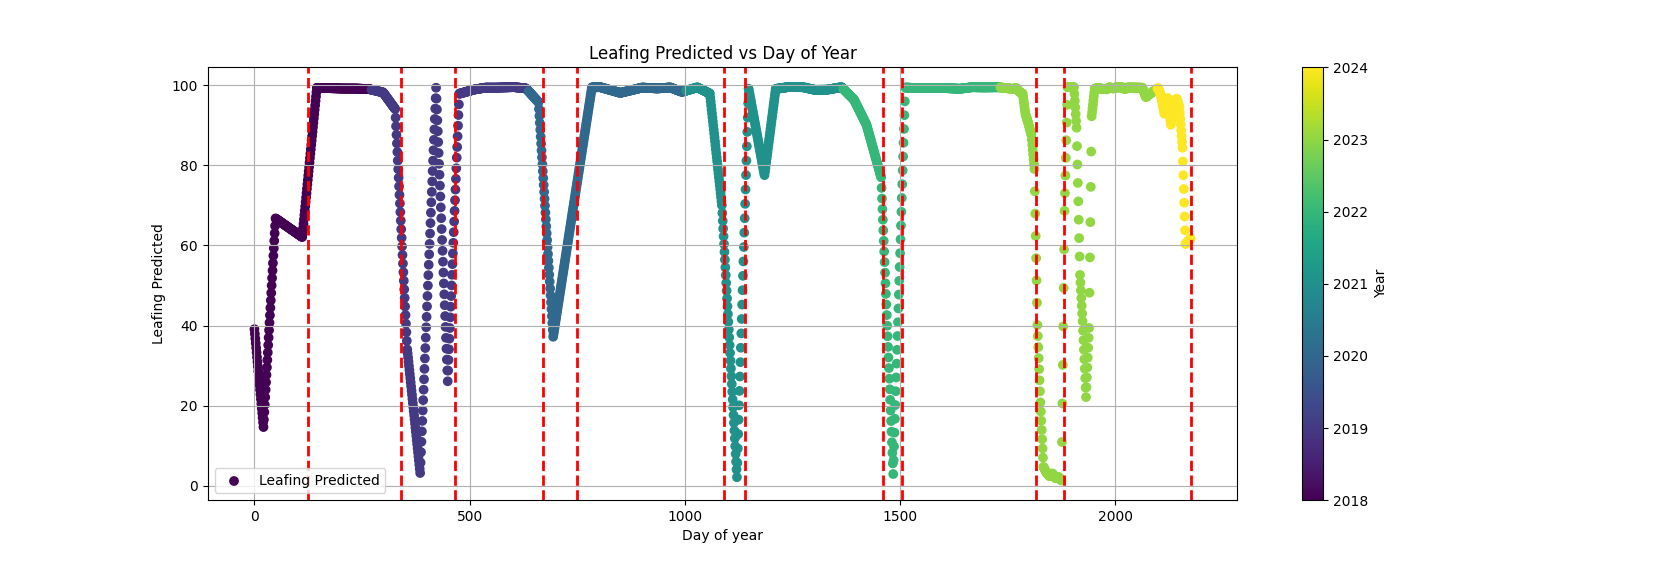
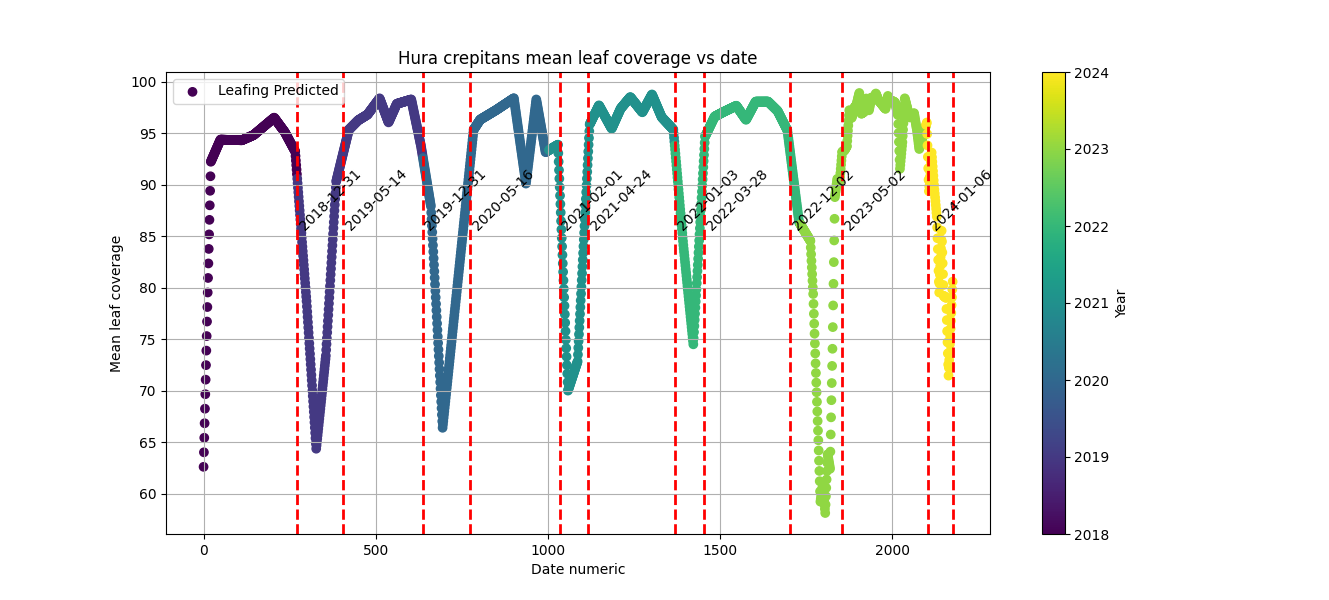
quit backing up the csv, getting too heavy, phenological metrics updated to PELT

Changed region(s): [[0.0617, 0.0605, 0.7404, 0.968], [0.7713, 0.0907, 0.8638, 0.9075]]

diff --git a/timeseries/9.extract_phenology_metrics.py b/timeseries/9.extract_phenology_metrics.py
@@ -7,7 +7,7 @@ import ruptures as rpt
 import statsmodels.api as sm
 
 
-data= pd.read_csv(r"timeseries/dataset_predictions/dipteryx_sgbt.csv")
+data= pd.read_csv(r"timeseries/dataset_predictions/hura_sgbt.csv")
 
 with open(r'timeseries/models/xgb_model.pkl', 'rb') as file:
       model = pickle.load(file)
@@ -27,6 +27,31 @@ df_final['year']= df_final['date'].dt.year
 df_final['date_num']= (df_final['date'] -df_final['date'].min()).dt.days
 
 globalID= df_final['GlobalID'].unique()
+len(globalID)
+plt.figure(figsize=(20, 6))
+for tree in df_final['GlobalID'].unique():
+    indv = df_final[df_final['GlobalID'] == tree]
+    tagn= indv['tag'].unique()[0]
+    plt.plot(indv['date'], indv['leafing_predicted'], label=f"Tree {tagn}", alpha=0.7)
+plt.xlabel('Date')
+plt.ylabel('Leafing Predicted')
+plt.grid(True)
+plt.title('Hura Crepitans: Leaf coverage vs Date')
+plt.legend(title="ForestGeo Tag", bbox_to_anchor=(1, 1), loc='upper left')
+plt.show()
+
+
+df_final['tag_numeric'] = pd.Categorical(df_final['tag']).codes
+lowess = sm.nonparametric.lowess(df_final['leafing_predicted'], df_final['dayYear'], frac=0.09)  # Adjust frac for smoothing level
+plt.plot(lowess[:, 0], lowess[:, 1], color='red', linewidth=2, label="LOWESS Trend")
+plt.scatter(df_final['dayYear'], df_final['leafing_predicted'], c=df_final['tag_numeric'], cmap='viridis', alpha=0.7)
+
+plt.xlabel('Day of Year')
+plt.ylabel('Leafing Predicted')
+plt.grid(True)
+plt.title('Leafing Predicted vs Day of Year with Trend Line')
+plt.show()
+
 
 all_df = []
 for tree in globalID:
@@ -38,111 +63,87 @@ for tree in globalID:
     full_df['year'] = full_df['date'].dt.year
     indv = pd.merge(full_df, indv, on=['date', 'date_num', 'year', 'dayYear'], how='left')
     indv['leafing_predicted'] = indv['leafing_predicted'].interpolate(method='linear')
+
+    #plt.figure(figsize=(12, 6))
+    #plt.scatter(indv['dayYear'], indv['leafing_predicted'], c=indv['year'], cmap='viridis', label='Leafing Predicted')
+    #plt.xlabel('Day of year')
+    #plt.ylabel('Leafing Predicted')
+    #plt.grid(True)
+    #plt.title('Leafing Predicted vs Day of Year')
+    #plt.legend()
+    #plt.colorbar(label='Year')
+    #plt.show()
+
     signal = indv['leafing_predicted'].values
-    algo_python = rpt.Pelt(model="rbf", jump=1, min_size=5).fit(signal)
+    algo_python = rpt.Pelt(model="rbf",jump=1,min_size=15).fit(signal)
     penalty_value = 30
     bkps_python = algo_python.predict(pen=penalty_value)
+
+
+    #plt.figure(figsize=(12, 6))
+    #plt.scatter(indv['date_num'], indv['leafing_predicted'], c=indv['year'], cmap='viridis', label='Leafing Predicted')
+    #plt.xlabel('Day of year')
+    #plt.ylabel('Leafing Predicted')
+    #plt.grid(True)
+    #plt.title('Leafing Predicted vs Day of Year')
+    #plt.legend()
+    #plt.colorbar(label='Year')
+    #for bp in bkps_python:
+    #    plt.axvline(x=bp, color='red', linestyle='--', linewidth=2)
+    #plt.show()
+
     indv['breakpoint'] = False
     indv.loc[indv['date_num'].isin(bkps_python), 'breakpoint'] = True
     indv['GlobalID'] = tree
     all_df.append(indv)
+    print("one done")
 
 out_df = pd.concat(all_df, ignore_index=True)
 
 break_group= out_df[out_df['breakpoint']==True]
+break_group[break_group['dayYear'].isna()]
 
-
-plt.figure(figsize=(10, 6))
-plt.hist(break_group['dayYear'], bins=365, color='blue', edgecolor='black', alpha=0.7)
-plt.xlabel('Day of the Year')
-plt.ylabel('Breakpoint Count')
-plt.title('Concentration of Breakpoints by Day of the Year')
-plt.grid(True)
+plt.scatter(break_group['year'], break_group['dayYear'])
 plt.show()
 
 
 
-globalID= all['GlobalID'].unique()
+# I am goint to have to extract the species specific metric
+# maybe i can do that with the etire dataset, then filter the trees that do not match the pattern(noise)
+# i am going to have to aggregate the dates
 
-indv= all[all['GlobalID']=='badee35d-7b09-4d87-9b4a-b052af7c3749']
+df = df_final.groupby('date', as_index=False)['leafing_predicted'].mean()
+full_date_range = pd.date_range(start=df_final['date'].min(), end=df_final['date'].max(), freq='D')
+full_df = pd.DataFrame({'date': full_date_range})
+full_df['dayYear'] = full_df['date'].dt.dayofyear
+full_df['date_num'] = (full_df['date'] - full_df['date'].min()).dt.days
+full_df['year'] = full_df['date'].dt.year
+full = pd.merge(full_df, df, on=['date'], how='left')
+full['leafing_predicted'] = full['leafing_predicted'].interpolate(method='linear')
 
-
-
-for tree in globalID:
-     indv= all[all['GlobalID']==tree].reset_index()
-     indv['leafing_predicted'] = indv['leafing_predicted'].interpolate(method='linear')
-
-     
-
-plt.figure(figsize=(12, 6))
-plt.scatter(indv.dropna(subset=['leafing_predicted'])['date_num'],
-            indv.dropna(subset=['leafing_predicted'])['leafing_predicted'],
-            c=indv.dropna(subset=['leafing_predicted'])['year'], cmap='viridis')
-plt.xlabel('Day of year')
-plt.ylabel('Leafing Predicted')
-plt.grid(True)
-plt.title('Leafing Predicted vs Day of Year')
-plt.legend()
-plt.colorbar(label='Year')
+plt.scatter(full['date'], full['leafing_predicted'])
 plt.show()
 
-
-
-
-
-
-
-
-# Fit LOWESS smoothing
-lowess = sm.nonparametric.lowess(indv['leafing_predicted'], indv['date_num'], frac=0.1)  # frac controls smoothness
-
-# Plot scatter and LOWESS trend
-plt.figure(figsize=(12, 6))
-plt.scatter(indv['date_num'], indv['leafing_predicted'], c=indv['year'], cmap='viridis', label='Leafing Predicted', alpha=0.6)
-plt.plot(lowess[:, 0], lowess[:, 1], color='red', linewidth=2, label='LOWESS Trend')
-
-plt.xlabel('Day of year')
-plt.ylabel('Leafing Predicted')
-plt.grid(True)
-plt.title('Leafing Predicted vs Day of Year with LOWESS Trend Line')
-plt.legend()
-plt.colorbar(label='Year')
-plt.show()
-
-
-# Extract the signal
-#for year 2019
-
-signal = indv['leafing_predicted'].values  # Get the leafing predictions
-len(signal)
-# Apply rupture's dynamic programming method
-algo_python = rpt.Pelt(model="rbf", jump=1, min_size=5).fit(
-    signal
-)
-penalty_value=30
+signal = full['leafing_predicted'].values
+algo_python = rpt.Pelt(model="rbf",jump=1,min_size=15).fit(signal)
+penalty_value = 30
 bkps_python = algo_python.predict(pen=penalty_value)
 
 
-
-# Plot the leafing predictions
 plt.figure(figsize=(12, 6))
-plt.scatter(indv['date_num'], indv['leafing_predicted'], c=indv['year'], cmap='viridis', label='Leafing Predicted')
-plt.xlabel('Day of year')
-plt.ylabel('Leafing Predicted')
+plt.scatter(full['date_num'], full['leafing_predicted'], c=full['year'], cmap='viridis', label='Leafing Predicted')
+plt.xlabel('Date numeric')
+plt.ylabel('Mean leaf coverage')
 plt.grid(True)
-plt.title('Leafing Predicted vs Day of Year')
+plt.title('Hura crepitans mean leaf coverage vs date')
 plt.legend()
 plt.colorbar(label='Year')
 
-# Add the detected breakpoints as dashed vertical lines
 for bp in bkps_python:
     plt.axvline(x=bp, color='red', linestyle='--', linewidth=2)
-
-# Show the plot
+    date_label = full.loc[full['date_num'] == bp, 'date'].dt.date.values  # Extract only date part
+    if len(date_label) > 0:
+        plt.text(bp, full['leafing_predicted'].mean(), str(date_label[0]), 
+                 rotation=45, color='black', fontsize=10, verticalalignment='center_baseline')
 plt.show()
-
-
-indv['breakpoint'] = False  
-indv.loc[indv['date_num'].isin(bkps_python), 'breakpoint'] = True
-
-indv[indv['breakpoint']==True]
+bkps_python

diff --git a/timeseries/8.predictions_features.py b/timeseries/8.predictions_features.py
@@ -5,25 +5,22 @@ import rasterio
 from shapely import box
 import matplotlib.pyplot as plt
 import shapely
-from rasterio.mask import mask
 import numpy as np
 from skimage.filters.rank import entropy
-from skimage.morphology import disk
 import pickle
 from rasterio.mask import mask
 import shapely
-import numpy as np
-import matplotlib.pyplot as plt
-from shapely.geometry import box
 import matplotlib.patches as patches
 from shapely.affinity import affine_transform
 from matplotlib.backends.backend_pdf import PdfPages
 from skimage.feature import graycomatrix, graycoprops
 from skimage import img_as_ubyte
-import seaborn as sns
-from skimage.filters.rank import entropy
 from skimage.morphology import disk
+import sys
+sys.path.append(os.path.abspath(os.path.dirname(__file__)))  # Add script's directory
+sys.path.append(os.path.abspath(os.path.join(os.path.dirname(__file__), '..')))  # Add parent directory
 
+from timeseries.utils import calculate_glcm_features
 
 #load polygons
 data_path=r"\\stri-sm01\ForestLandscapes\UAVSHARE\BCI_50ha_timeseries"
@@ -33,7 +30,8 @@ crowns=gpd.read_file(path_crowns)
 crowns['polygon_id']= crowns['GlobalID']+"_"+crowns['date'].str.replace("_","-")
 
 
-dipteryx_subset= crowns[crowns['latin']=='Dipteryx oleifera'].reset_index()
+species_subset= crowns[crowns['latin']=='Hura crepitans'].reset_index()
+
 pixel_unmixing=gpd.read_file(os.path.join(data_path,'aux_files/pixel_unmixing.shp'))
 gv_pixels = []  # For GV (Green Vegetation)
 npv_pixels = []  # For NPV (Non-photosynthetic Vegetation)
@@ -75,37 +73,15 @@ A = np.vstack([gv_endmember, npv_endmember,shadow_endmember]).T
 A_inv = np.linalg.pinv(A)
 A_inv.shape
 
-plt.figure(figsize=(8, 6))
-bands = ['Red', 'Green', 'Blue']
-plt.plot(bands, gv_endmember, label='GV Endmember (Green Vegetation)', marker='o')
-plt.plot(bands, npv_endmember, label='NPV Endmember (Non-Photosynthetic Vegetation)', marker='o')
-plt.plot(bands, shadow_endmember, label='Shadow Endmember (Shadow)', marker='o')
-
-plt.xlabel('Spectral Bands')
-plt.ylabel('Reflectance Value')
-plt.title('Spectral Response of Endmembers')
-plt.legend()
-plt.grid(True)
-plt.show()
-
 
 #angles for covariance matrix
 window_size = 5  # 5x5 window
 angles = [0, 45, 90, 135]  # Azimuths in degrees
 
-def calculate_glcm_features(image, window_size=5, angles=[0, 45, 90, 135]):
-    glcm_features = []
-    for angle in angles:
-        # Calculate the GLCM for the specified angle
-        glcm = graycomatrix(img_as_ubyte(image), distances=[1], angles=[np.deg2rad(angle)], symmetric=True, normed=True) 
-        correlation = graycoprops(glcm, 'correlation')[0, 0]
-        glcm_features.append(correlation)
-    return glcm_features
-
 
 #extract the features, crown based 
-for i, (_, row) in enumerate(dipteryx_subset.iterrows()):
-    print(f"Processing iteration {i + 1} of {len(dipteryx_subset)}")
+for i, (_, row) in enumerate(species_subset.iterrows()):
+    print(f"Processing iteration {i + 1} of {len(species_subset)}")
     path_orthomosaic = os.path.join(data_path,'orthomosaic_aligned_local', f"BCI_50ha_{row['date']}_local.tif")
     with rasterio.open(path_orthomosaic) as src:
         out_image, out_transform = mask(src, [row.geometry], crop=True)
@@ -160,64 +136,24 @@ for i, (_, row) in enumerate(dipteryx_subset.iterrows()):
         entropyM=np.nanmean(entropy_image)
         elevSD= np.nanstd(elev)
 
-        dipteryx_subset.at[i, 'rccM'] = rccM
-        dipteryx_subset.at[i, 'gccM'] = gccM
-        dipteryx_subset.at[i, 'bccM'] = bccM
-        dipteryx_subset.at[i, 'ExGM'] = ExGM
-        dipteryx_subset.at[i, 'gvM'] = gvM
-        dipteryx_subset.at[i, 'npvM'] = npvM
-        dipteryx_subset.at[i, 'shadowM'] = shadowM
-        dipteryx_subset.at[i, 'rSD'] = rSD
-        dipteryx_subset.at[i, 'gSD'] = gSD
-        dipteryx_subset.at[i, 'bSD'] = bSD
-        dipteryx_subset.at[i, 'ExGSD'] = ExGSD
-        dipteryx_subset.at[i, 'gvSD'] = gvSD
-        dipteryx_subset.at[i, 'npvSD'] = npvSD
-        dipteryx_subset.at[i, 'gcorSD'] = gcorSD
-        dipteryx_subset.at[i, 'gcorMD'] = gcorMD
-        dipteryx_subset.at[i, 'entropy']= entropyM
-        dipteryx_subset.at[i, 'elevSD']= elevSD
+        species_subset.at[i, 'rccM'] = rccM
+        species_subset.at[i, 'gccM'] = gccM
+        species_subset.at[i, 'bccM'] = bccM
+        species_subset.at[i, 'ExGM'] = ExGM
+        species_subset.at[i, 'gvM'] = gvM
+        species_subset.at[i, 'npvM'] = npvM
+        species_subset.at[i, 'shadowM'] = shadowM
+        species_subset.at[i, 'rSD'] = rSD
+        species_subset.at[i, 'gSD'] = gSD
+        species_subset.at[i, 'bSD'] = bSD
+        species_subset.at[i, 'ExGSD'] = ExGSD
+        species_subset.at[i, 'gvSD'] = gvSD
+        species_subset.at[i, 'npvSD'] = npvSD
+        species_subset.at[i, 'gcorSD'] = gcorSD
+        species_subset.at[i, 'gcorMD'] = gcorMD
+        species_subset.at[i, 'entropy']= entropyM
+        species_subset.at[i, 'elevSD']= elevSD
 
-dipteryx_subset=dipteryx_subset.drop(columns=['geometry'])
+species_subset=species_subset.drop(columns=['geometry'])
 
-dipteryx_subset.to_csv(r"timeseries/dataset_predictions/dipteryx_sgbt.csv")
-
-dipteryx_predict= pd.read_csv(r'timeseries/dataset_predictions/dipteryx_sgbt.csv')
-dipteryx_predict.columns
-
-with open(r'timeseries/models/xgb_model.pkl', 'rb') as file:
-      model = pickle.load(file)
-
-X=dipteryx_predict[['rccM', 'gccM', 'bccM', 'ExGM', 'gvM', 'npvM', 'shadowM','rSD', 'gSD', 'bSD',
-       'ExGSD', 'gvSD', 'npvSD', 'gcorSD', 'gcorMD','entropy','elevSD']]
-
-Y= dipteryx_predict[['area', 'score', 'tag', 'GlobalID', 'iou',
-       'date', 'latin', 'polygon_id']]
-X_predicted=model.predict(X)
-df_final = Y.copy()  # Copy Y to keep the same structure
-df_final['leafing_predicted'] = X_predicted
-
-df_final['date'] = pd.to_datetime(df_final['date'], format='%Y_%m_%d')
-df_final.columns
-
-import matplotlib.pyplot as plt
-import seaborn as sns
-
-df_final = df_final.sort_values(by=['GlobalID', 'date'])
-
-# Set plot size
-plt.figure(figsize=(12, 6))
-
-# Plot one line per GlobalID
-sns.lineplot(data=df_final, x='date', y='leafing_predicted', hue='GlobalID', estimator=None, lw=2)
-
-# Formatting
-plt.xlabel('Date')
-plt.ylabel('Leafing Predicted')
-plt.title('Leafing Predictions Over Time for Each GlobalID')
-plt.xticks(rotation=45)
-plt.legend(title='GlobalID', bbox_to_anchor=(1.05, 1), loc='upper left')
-plt.grid(True)
-
-# Show the plot
-plt.show()
+species_subset.to_csv(r"timeseries/dataset_predictions/hura_sgbt.csv")
